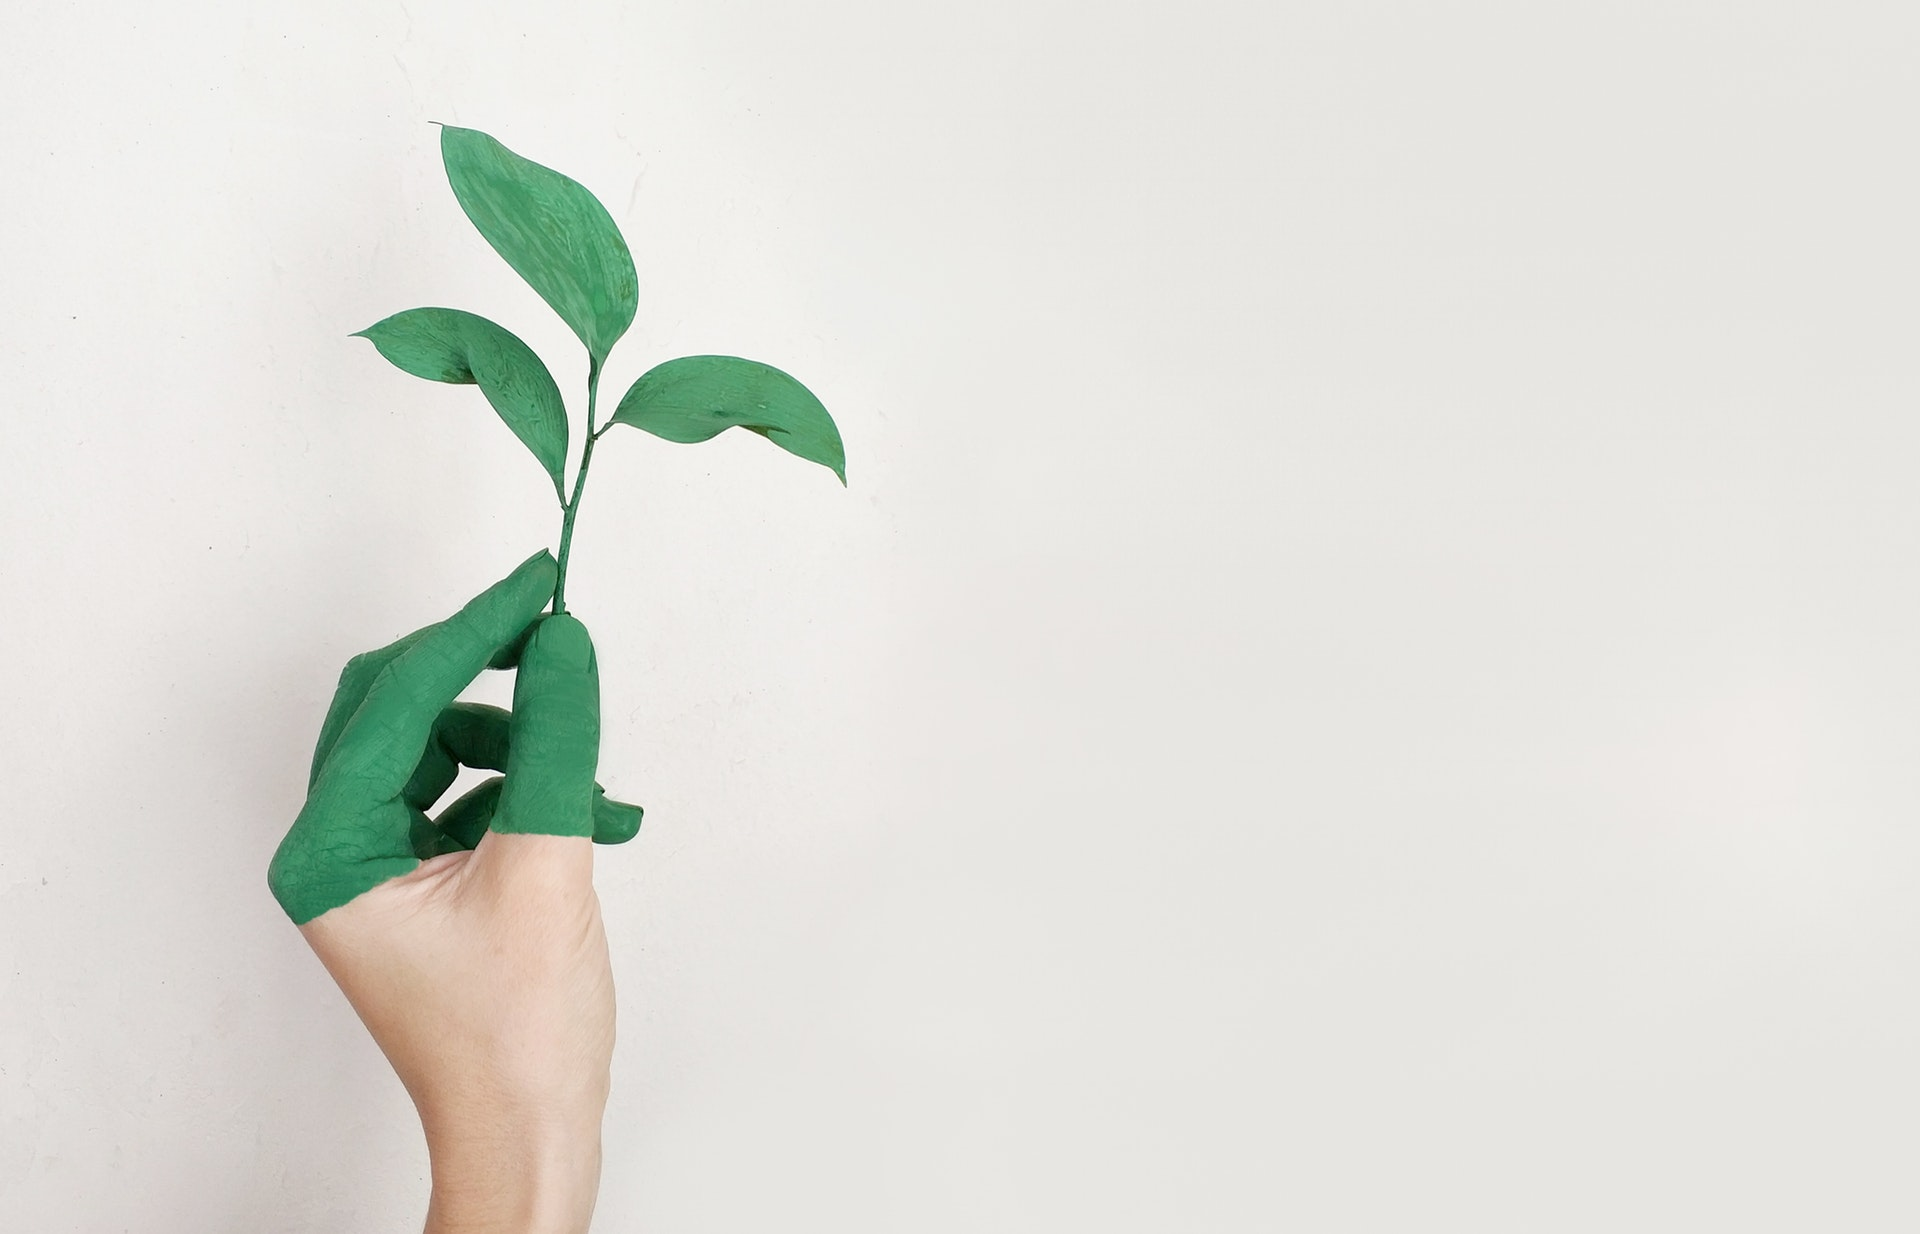
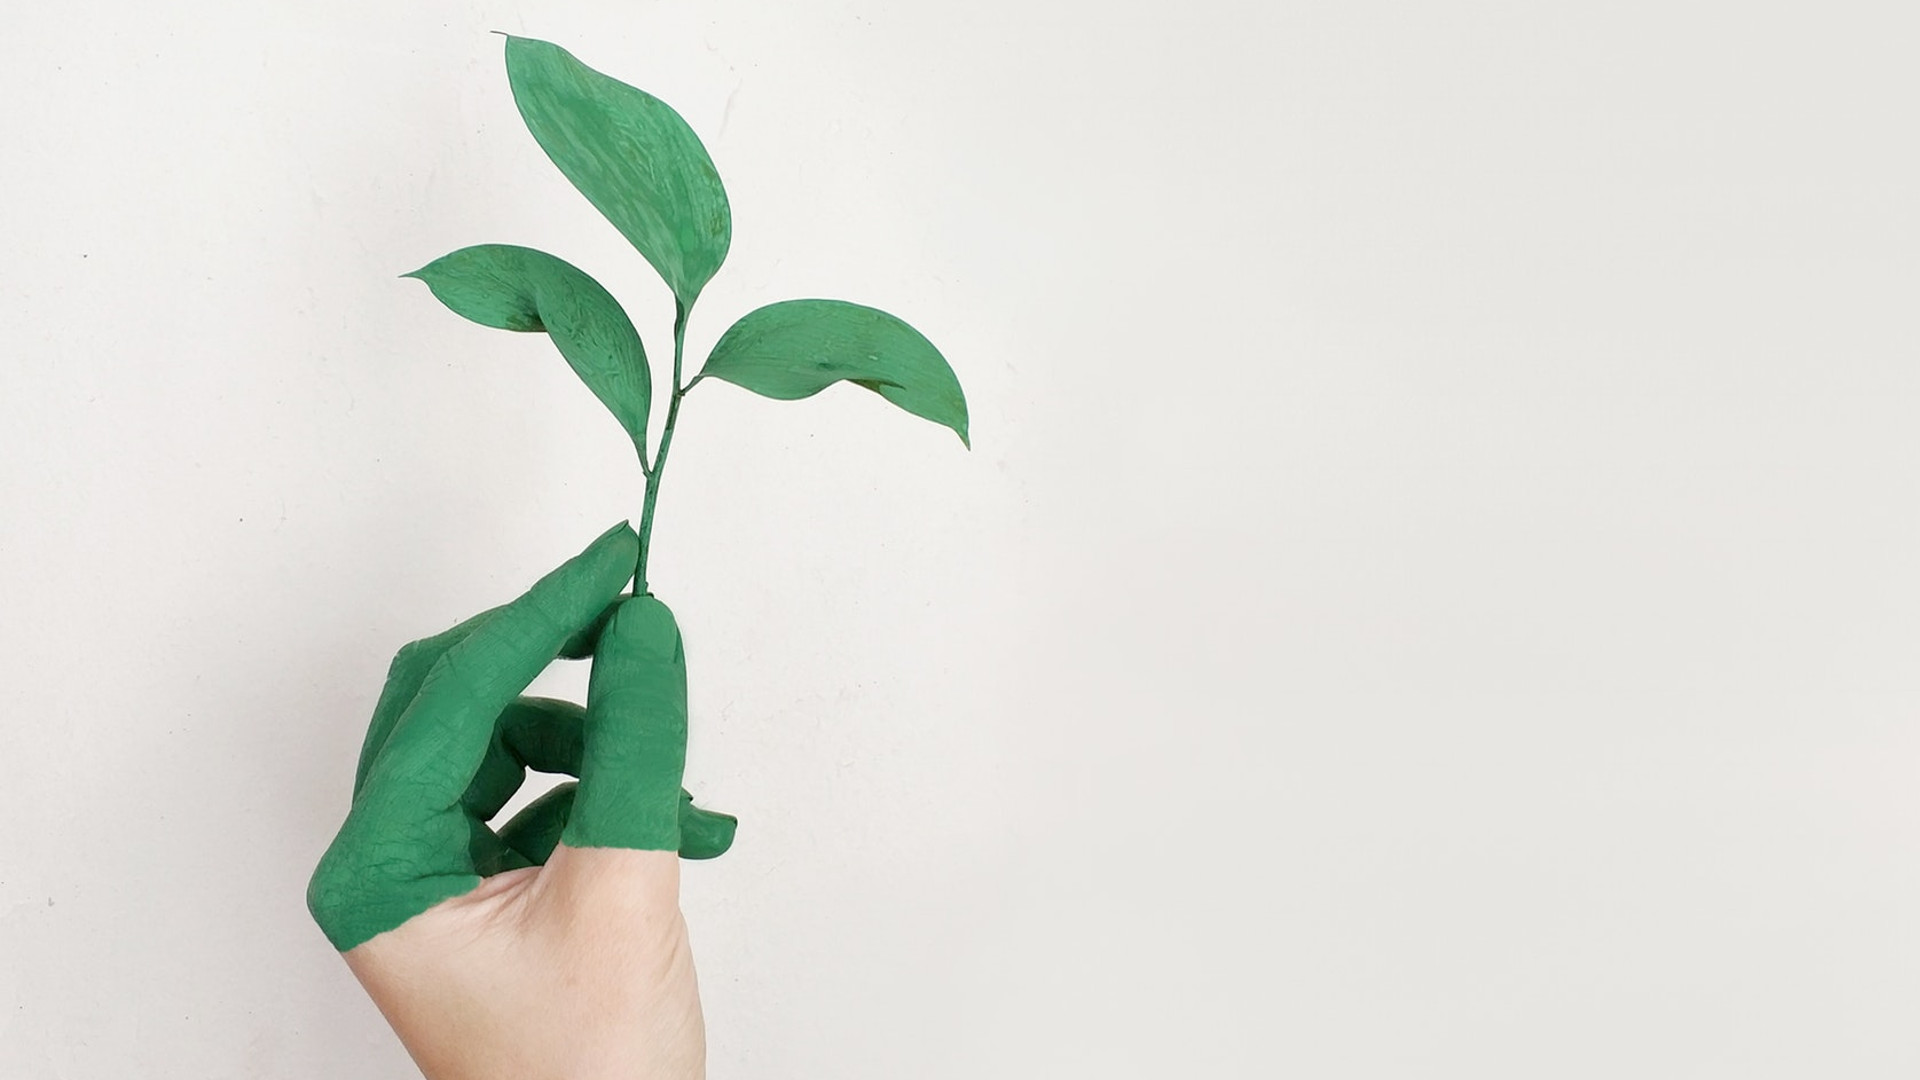
1.8

Changed region(s): [[0.125, 0.0306, 0.5312, 1.0]]

diff --git a/index.html b/index.html
@@ -13,11 +13,12 @@
     <meta name="description" content="Firma GoEko – systemy pasywne. to firma zajmująca się innowacyjnymi rozwiązaniami z dziedziny odnawialnych źródeł energii dla twojego domu oraz nowoczesnym ich wykończeniem wraz z przestrzenia architektury krajobrazu w którą się wpisują.">
     <meta name="keywords" content="GoEko, eko, energy, house, odnawialne, źródła, energii, instalacje">
     <meta name="viewport" content="width=device-width">
+    <link rel="shortcut icon" href="img/favicon-32x32.png" type="image/x-icon">
+
     <link rel="stylesheet" href="https://stackpath.bootstrapcdn.com/bootstrap/4.1.1/css/bootstrap.min.css" integrity="sha384-WskhaSGFgHYWDcbwN70/dfYBj47jz9qbsMId/iRN3ewGhXQFZCSftd1LZCfmhktB"
         crossorigin="anonymous">
     <link rel="stylesheet" href="css/tuesday.css">
     <link rel="stylesheet" href="css/style.css">
-    <link rel="stylesheet" href="fonts/css/fontello.css">
 </head>
 
 <body>
@@ -65,30 +66,30 @@
                 </nav>
             </header>
 
-            <section id="carouselExampleIndicators" class="carousel slide carousel-fade" data-ride="carousel" data-interval="5000">
+            <section id="carouselExampleIndicators" class="carousel slide carousel-fade" data-ride="carousel" data-interval="3500">
                 <ol class="carousel-indicators">
                     <li data-target="#carouselExampleIndicators" data-slide-to="0" class="active"></li>
                     <li data-target="#carouselExampleIndicators" data-slide-to="1"></li>
                     <li data-target="#carouselExampleIndicators" data-slide-to="2"></li>
                 </ol>
                 <div class="carousel-inner">
-                    <div class="carousel-item Scarousel-image-1 Scarousel-options active">
-                        <img class="d-block h-100vh" src="img/carousel-1.jpg" alt="slajd-1">
+                    <div class="carousel-item Scarousel-image-1 Scarousel-options active carousel-image-1 h-100vh">
+                        <!-- <img class="d-block sh-100vh" src="img/carousel-1.jpg" alt="slajd-1"> -->
                         <div class="carousel-caption text-shadow">
                             <h2>GoEko – systemy pasywne</h2>
                             <p>Innowacyjne rozwiązania z dziedziny odnawialnych źródeł energii wraz z przestrzenią architektury
                                 krajobrazu</p>
                         </div>
                     </div>
-                    <div class="carousel-item Scarousel-image-2 Scarousel-options">
-                        <img class="d-block h-100vh" src="img/carousel-2.jpg" alt="slajd-1">
+                    <div class="carousel-item Scarousel-image-2 Scarousel-options carousel-image-2 h-100vh">
+                        <!-- <img class="d-block sh-100vh" src="img/carousel-2.jpg" alt="slajd-1"> -->
                         <div class="carousel-caption text-shadow">
                             <h2>Branża hydrauliczna</h2>
                             <p>Realizacje instalacji hydraulicznych od samego początku budowy domu</p>
                         </div>
                     </div>
-                    <div class="carousel-item Scarousel-image-4 Scarousel-options">
-                        <img class="d-block h-100vh" src="img/carousel-4.jpg" alt="slajd-1">
+                    <div class="carousel-item Scarousel-image-4 Scarousel-options carousel-image-4 h-100vh">
+                        <!-- <img class="d-block sh-100vh" src="img/carousel-4.jpg" alt="slajd-1"> -->
                         <div class="carousel-caption text-shadow">
                             <h2>Projektowanie ogrodów</h2>
                             <p>Wykończenia domów wraz z architekturą krajobrazu</p>
@@ -108,24 +109,23 @@
 
         <!-- O Nas -->
 
-        <article class="container-fluid bg-light mt-0" id="section1">
+        <article class="container-fluid bg-light mt-0 p-0" id="section1">
             <h1 class="sr-only">O Nas</h1>
-            <section class="container jumbotron white bg-light p-5">
+            <section class="container jumbotron white bg-light pt-5 pb-5">
                 <div class="row animated1" data-animation="tdFadeIn">
-                    <div class="col-xs-12 col-lg-8">
-                        <h1 class="display-4 mb-5 text-color">O nas</h1>
-                        <p class="lead">GoEko - to firma zajmująca się innowacyjnymi rozwiązaniami z dziedziny odnawialnych źródeł energii
+                    <div class="col-xs-12 col-lg-9">
+                        <h1 class="display-4 m-4 text-color">O nas</h1>
+                        <p class="lead m-4">GoEko - to firma zajmująca się innowacyjnymi rozwiązaniami z dziedziny odnawialnych źródeł energii
                             dla twojego domu oraz przestrzenią architektury krajobrazu w którą się on wpisuję . Stawiamy
                             na kompleksową realizację inwestycji począwszy od fazy koncepcyjnej i projektowej, aż po wykonanie
                             całej instalacji "pod klucz" wraz z kwestią formalną.</p>
                     </div>
-                    <div class="d-none d-lg-block col-md-4 img-responsive icon-large">
-                        <img src="img/Img-about.jpeg" alt="about-us" class="img-fluid">
+                    <div class="d-none d-lg-block col-md-3 img-responsive icon-large text-right">
+                        <img src="img/Img-about.jpeg" alt="about-us" class="img-fluid m-4">
                     </div>
                 </div>
                 <hr class="my-4">
-                <p class="animated1" data-animation="tdFadeIn">Naszym priorytetem jest zaprojektowanie i stworzenie instalacji, które dadzą użytkownikowi satysfakcję oraz
-                    oszczędność</p>
+                <p class="animated1 m-4" data-animation="tdFadeIn">Naszym priorytetem jest zaprojektowanie i stworzenie instalacji które dadzą użytkownikowi satysfakcję oraz oszczędność</p>
             </section>
         </article>
 
@@ -447,27 +447,37 @@
 
     </main>
 
-    <footer class="container-fluid bg-color pt-5 pb-2" id="section4">
+    <footer class="container-fluid bg-color pt-5 pl-0 pr-0" id="section4">
         <article class="container animated" data-animation="tdExpandIn">
             <h1 class="sr-only">Kontakt</h1>
 
-            <section class="row">
-                <div class="col-md-12 col-lg-6 text-center bg-color text-light center-card">
-                    <i class="icon-mail mt-2 icon-medium"></i>
-                    <div class="card-body">
-                        <h5 class="card-title">E-mail:
-                            <small> twojadres@gmail.com</small>
-                        </h5>
-                    </div>
-                    <i class=" icon-phone mt-2 icon-medium"></i>
-                    <div class="card-body">
-                        <h5 class="card-title">Telefon:
-                            <small> 732-575-325</small>
-                        </h5>
-                    </div>
-                </div>
+            <section class="row mb-4">
 
-                <div class="col-md-12 col-lg-6 bg-color text-light">
+                    <div class="col-md-12 col-lg-5 bg-color text-light text-center text-lg-left center-card pl-5 pr-5 pt-1">
+                        <div class="card-body p-1">
+                            <h3 class="card-title mb-0">GoEko - Piotr Fiedor</h3>
+                            <p class="mb-1"></p>
+                        </div>
+                        <div class="card-body p-1">
+                            <h5 class="card-title mb-0">Adres: <small>ul. Słotwińska 66, 33-380 Krynica-Zdrój</small></h5>
+                            <p class="mb-1"></p>
+                        </div>
+                        <div class="card-body p-1">
+                            <h5 class="card-title mb-0">E-mail: <small>twojadres@gmail.com</small></h5>
+                            <p class="mb-1"></p>
+                        </div>
+                        <div class="card-body p-1">
+                            <h5 class="card-title mb-0">Telefon: <small>732-575-325</small> </h5>
+                            <p class="mb-1"></p>
+                        </div>
+                        <div class="card-body p-1">
+                            <h5 class="card-title mb-0">NIP: <small>7343456720</small> </h5>
+                            <p class="mb-1"></p>
+                        </div>
+                        <hr class="hr-1 d-lg-none">
+                    </div>
+
+                <div class="col-md-12 col-lg-7 bg-color text-light pl-5 pr-5">
                     <form action="https://formspree.io/kminus@interia.eu" method="POST">
                         <div class="form-group">
                             <label for="exampleFormControlInput1" class="text-light">Podaj swój adres E-mail</label>
@@ -482,13 +492,12 @@
                         </div>
                     </form>
                 </div>
+
             </section>
 
         </article>
 
-        <hr class="m-0">
-
-        <nav>
+        <nav class="bg-color-dark p-2">
             <h1 class="sr-only">Nawigacja</h1>
             <ul class="nav nav-footer d-flex animated" data-animation="tdExpandIn">
                 <li class="nav-item">
@@ -506,15 +515,13 @@
             </ul>
         </nav>
 
-        <hr class="m-0">
+        <hr class="m-0 hr-1">
 
-        <article class="container text-center p-3 animated" data-animation="tdExpandIn">
+        <article class="container-fluid text-center p-3 m-0 bg-color-dark">
             <h1 class="sr-only">Coppyrights</h1>
-            <div>
-                <a href="#section0">
-                    <img class="img-fluid logo pt-2 text-right" src="img/logo.png" alt="logo" class="logo">
-                </a>
-                <p class="lead text-light mb-0 p-0 coppyright">
+            <div class="animated" data-animation="tdExpandIn">
+                <img class="img-fluid logo m-0 pt-2 pb-2 text-right" src="img/logo.png" alt="logo" class="logo">
+                <p class="lead text-light m-0 p-0 coppyright">
                     <small>&copy GoEko - Wszelkie prawa zastrzeżone</small>
                 </p>
                 <p class="lead text-light mb-0 p-0 coppyright">
@@ -528,8 +535,8 @@
     <script src="js/script.js"></script>
     <script src="https://code.jquery.com/jquery-3.3.1.slim.min.js" integrity="sha384-q8i/X+965DzO0rT7abK41JStQIAqVgRVzpbzo5smXKp4YfRvH+8abtTE1Pi6jizo"
         crossorigin="anonymous"></script>
-    <script src="https://cdnjs.cloudflare.com/ajax/libs/popper.js/1.14.3/umd/popper.min.js" integrity="sha384-ZMP7rVo3mIykV+2+9J3UJ46jBk0WLaUAdn689aCwoqbBJiSnjAK/l8WvCWPIPm49"
-        crossorigin="anonymous"></script>
+    <!-- <script src="https://cdnjs.cloudflare.com/ajax/libs/popper.js/1.14.3/umd/popper.min.js" integrity="sha384-ZMP7rVo3mIykV+2+9J3UJ46jBk0WLaUAdn689aCwoqbBJiSnjAK/l8WvCWPIPm49"
+        crossorigin="anonymous"></script> -->
     <script src="https://stackpath.bootstrapcdn.com/bootstrap/4.1.1/js/bootstrap.min.js" integrity="sha384-smHYKdLADwkXOn1EmN1qk/HfnUcbVRZyYmZ4qpPea6sjB/pTJ0euyQp0Mk8ck+5T"
         crossorigin="anonymous"></script>
 </body>

diff --git a/css/style.css b/css/style.css
@@ -1,2 +1,2 @@
-main,footer{overflow:hidden}.text-shadow{text-shadow:0px 0px 5px black}.sticky{z-index:1000;position:fixed;width:100%}.bg-color{background:#3E9566}.text-color{color:#3E9566 !important}.bg-color2{background:#3C6C86 !important}.bg-color3{background:#89BE4F}.logo{margin-right:40px;width:100px}.white{background-color:white}.navigation{position:absolute;z-index:4;width:100%;top:0;left:0}.h-100vh{height:100vh !important}.carousel-image-1{background-image:url("../img/carousel-1.jpg")}.carousel-image-2{background-image:url("../img/carousel-2.jpg")}.carousel-image-3{background-image:url("../img/carousel-3.jpg")}.carousel-image-4{background-image:url("../img/carousel-4.jpg")}.carousel-options{height:100%;background-attachment:fixed;background-position:center;background-size:cover}.diffrents{background-image:url("../img/eco.jpeg") !important;background-position:center;background-attachment:fixed;background-size:auto;height:500px}.album{display:-webkit-box;display:-ms-flexbox;display:flex;-ms-flex-wrap:wrap;flex-wrap:wrap}.scroll{overflow:auto;height:600px}.border-color2{border-color:#3C6C86}.icon-medium{font-size:30px;text-align:center}.icon-large{font-size:60px;text-align:center}.icon-xxl{font-size:72px;text-align:center;padding-bottom:30px}.submit-btn{display:-webkit-box;display:-ms-flexbox;display:flex;-ms-flex-line-pack:end;align-content:flex-end}.coppyright{overflow:hidden}@media (min-width: 768px){.d-md-inline{display:inline}.text-sm{font-size:18px}}@media (max-width: 576px){.text-sm{font-size:14px}}.nav-footer{-webkit-box-pack:center;-ms-flex-pack:center;justify-content:center}.nav-footer li a{color:white}
+main,footer{overflow:hidden}.hr-1{border-color:#347c55}.text-shadow{text-shadow:0px 0px 5px black}.sticky{z-index:1000;position:fixed;width:100%}.bg-color{background:#3E9566}.bg-color-dark{background:#3a8a5f;width:100%;height:100%}.text-color{color:#3E9566 !important}.bg-color2{background:#3C6C86 !important}.bg-color3{background:#89BE4F}.logo{margin-right:40px;width:100px}.white{background-color:white}.navigation{position:absolute;z-index:4;width:100%;top:0;left:0}.h-100vh{height:100vh !important}.carousel-image-1{background-image:url("../img/carousel-1.jpg");background-attachment:fixed;background-size:cover;background-position:center}.carousel-image-2{background-image:url("../img/carousel-2.jpg");background-attachment:fixed;background-size:cover}.carousel-image-3{background-image:url("../img/carousel-3.jpg");background-attachment:fixed;background-size:cover}.carousel-image-4{background-image:url("../img/carousel-4.jpg");background-attachment:fixed;background-size:cover}.carousel-options{height:100%;background-attachment:fixed;background-position:center;background-size:cover}.diffrents{background-image:url("../img/eco.jpeg") !important;background-position:center;background-attachment:fixed;background-size:cover;height:600px}.album{display:-webkit-box;display:-ms-flexbox;display:flex;-ms-flex-wrap:wrap;flex-wrap:wrap}.scroll{overflow:auto;height:600px}.border-color2{border-color:#3C6C86}.icon-medium{font-size:30px;text-align:center}.icon-large{font-size:60px;text-align:center}.icon-xxl{font-size:72px;text-align:center;padding-bottom:30px}.submit-btn{display:-webkit-box;display:-ms-flexbox;display:flex;-ms-flex-line-pack:end;align-content:flex-end}.coppyright{overflow:hidden}@media (min-width: 768px){.d-md-inline{display:inline}.text-sm{font-size:18px}}@media (max-width: 576px){.text-sm{font-size:14px}}.nav-footer{-webkit-box-pack:center;-ms-flex-pack:center;justify-content:center}.nav-footer li a{color:white;opacity:0.8}.nav-footer li a:hover{color:white;opacity:1}
 /*# sourceMappingURL=style.css.map */

diff --git a/css/style.scss b/css/style.scss
@@ -4,6 +4,10 @@ main, footer {
     overflow: hidden;
 }
 
+.hr-1 {
+    border-color: darken($color: $color1, $amount: 7); 
+}
+
 .text-shadow {
     text-shadow: 0px 0px 5px black;
 }
@@ -16,6 +20,12 @@ main, footer {
 
 .bg-color {
     background: $color1;
+}
+
+.bg-color-dark {
+    background: darken($color: $color1, $amount: 3);
+    width: 100%;
+    height: 100%;
 }
 
 .text-color {
@@ -54,18 +64,27 @@ main, footer {
 
 .carousel-image-1 {
     background-image: url("../img/carousel-1.jpg");
+    background-attachment: fixed;
+    background-size: cover;
+    background-position: center;
 }
 
 .carousel-image-2 {
     background-image: url("../img/carousel-2.jpg");
+    background-attachment: fixed;
+    background-size: cover;
 }
 
 .carousel-image-3 {
     background-image: url("../img/carousel-3.jpg");
+    background-attachment: fixed;
+    background-size: cover;
 }
 
 .carousel-image-4 {
     background-image: url("../img/carousel-4.jpg");
+    background-attachment: fixed;
+    background-size: cover;
 }
 
 .carousel-options {
@@ -79,14 +98,14 @@ main, footer {
     background-image: url("../img/eco.jpeg") !important;
     background-position: center;
     background-attachment: fixed;
-    background-size: auto;
-    height: 500px;
+    background-size: cover;
+    height: 600px;
 }
 
 .album {
     display: flex;
     flex-wrap: wrap;
-    
+
 }
 
 .scroll {
@@ -145,6 +164,11 @@ main, footer {
       li {
           a {
               color: white;
+              opacity: 0.8;
+          }
+          a:hover {
+              color: white;
+              opacity: 1;
           }
       }
   }

diff --git a/css/_variables.scss b/css/_variables.scss
@@ -1,3 +1,3 @@
-$color1: #3E9566;
+$color1: #3e9566;
 $color2: #3C6C86;
 $color3: #89BE4F;
